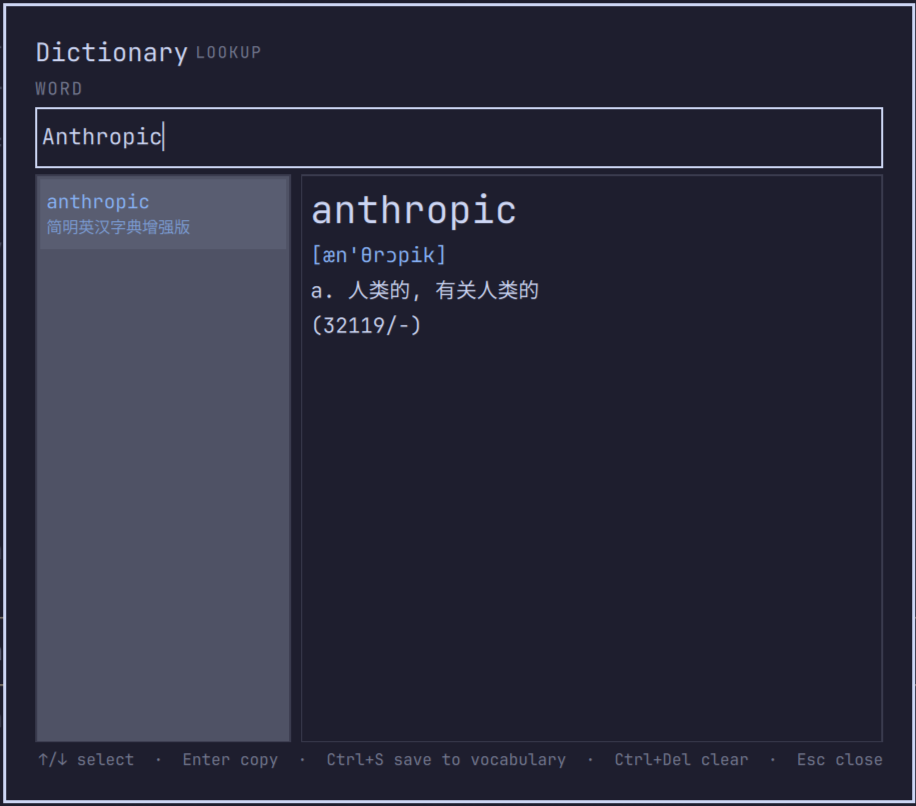
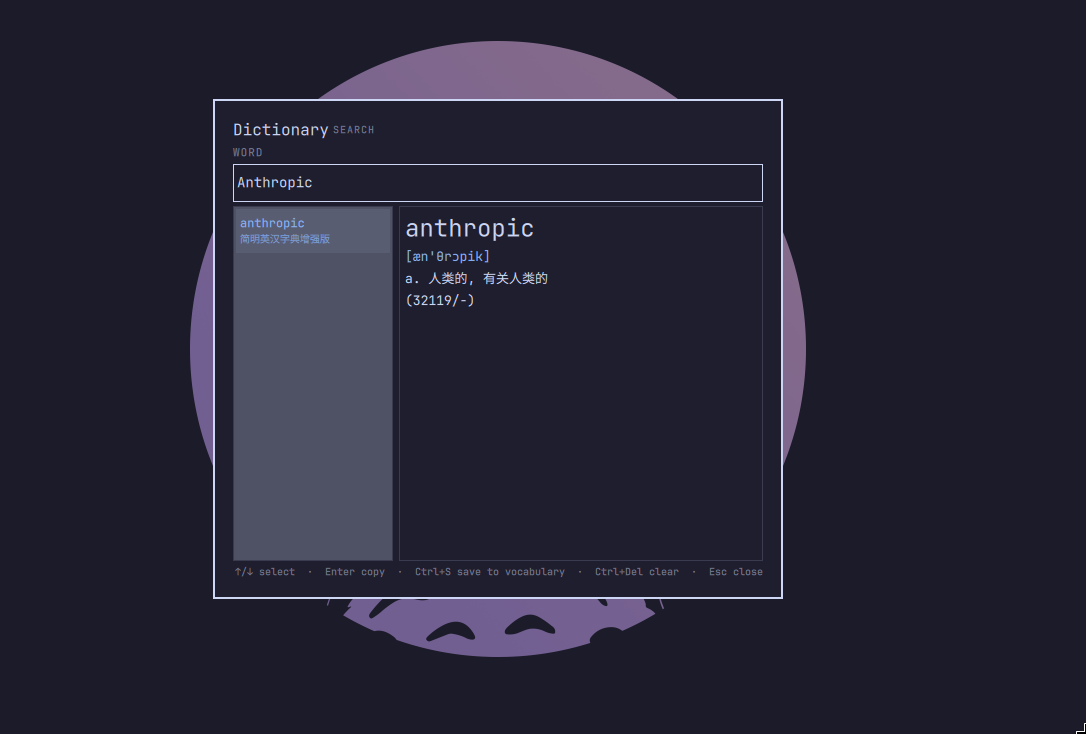
preview.png

diff --git a/README.md b/README.md
@@ -40,13 +40,9 @@ process. It shells out to the following tools, all of which must be on `PATH`:
 | `bash`, coreutils | `selection.sh`, vocabulary writes | base |
 | `omarchy-notification-send` | Save/no-result notifications | Omarchy |
 
-```sh
-sudo pacman -S sdcv wl-clipboard
-yay -S stardict-ecdict      # AUR
-```
-
-`sdcv` finds the dictionary automatically under `/usr/share/stardict/dic/`.
-Confirm it works before installing the plugin:
+Install the packages listed above from their repositories using your usual
+tooling. `sdcv` finds the dictionary automatically under
+`/usr/share/stardict/dic/`. Confirm it works before installing the plugin:
 
 ```sh
 sdcv -n -j -e ephemeral
@@ -65,10 +61,8 @@ This clones the repository, validates the manifest, installs it to
 
 ### Manual installation
 
-```sh
-git clone https://github.com/NonMirror/nonmirror.dict \
-  ~/.config/omarchy/plugins/nonmirror.dict
-```
+If you install plugins by hand, download this repository and place its
+contents in `~/.config/omarchy/plugins/nonmirror.dict/`.
 
 Then enable it in `~/.config/omarchy/shell.json` by adding it to `plugins`:
 
